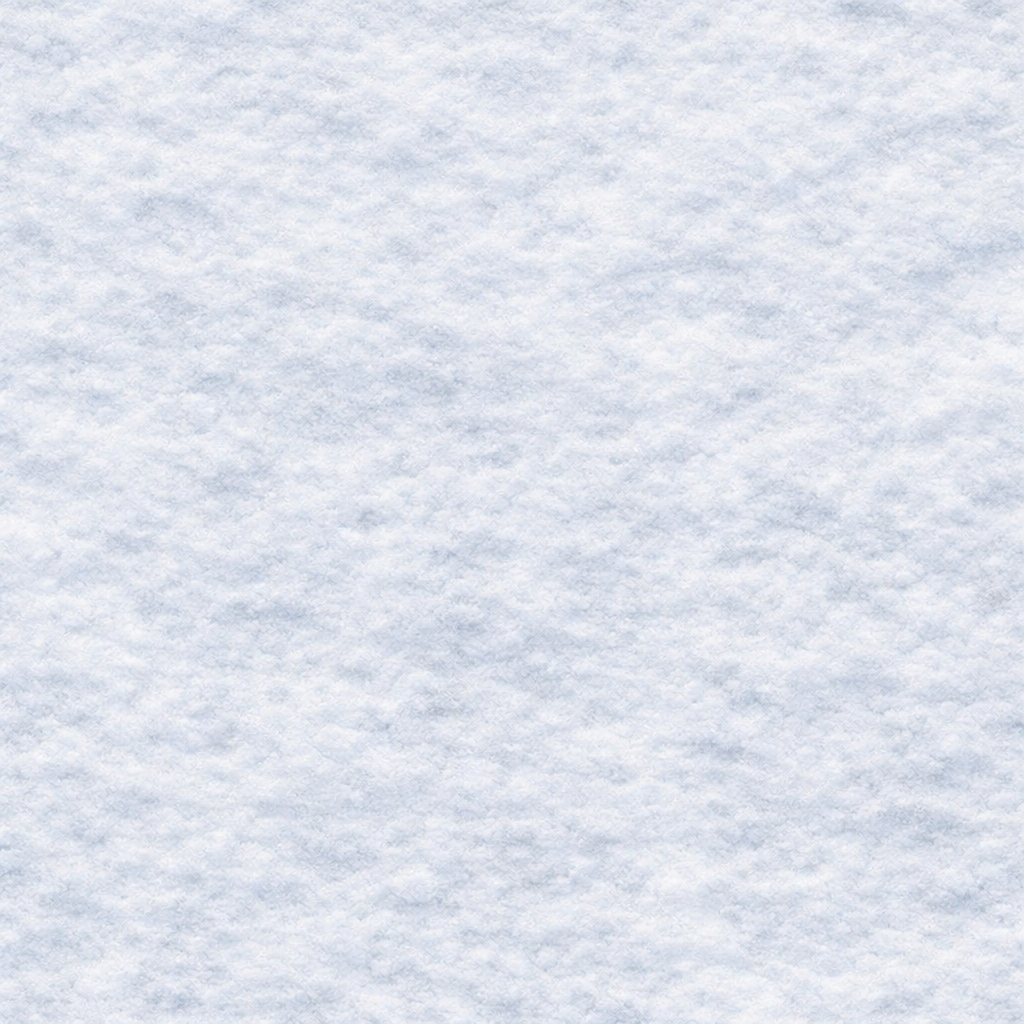
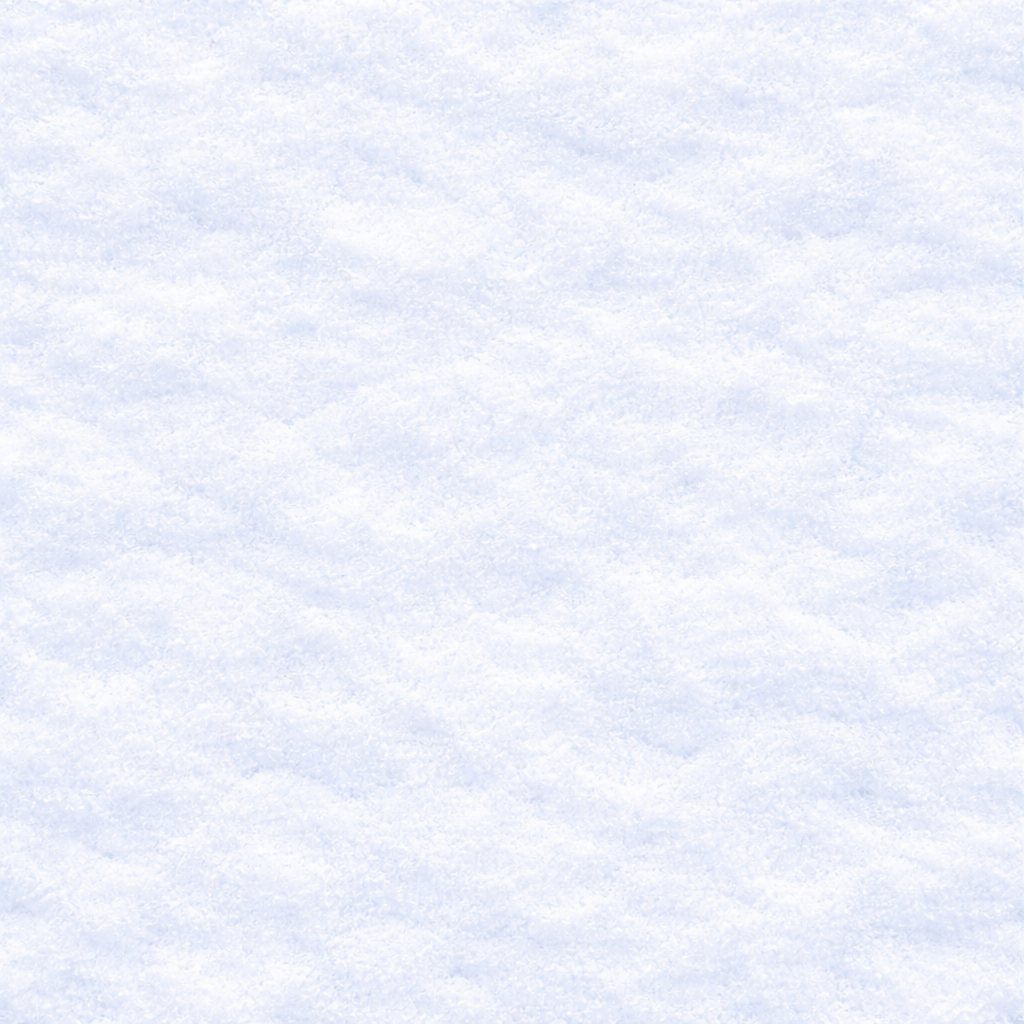
simplified tiles: only ocean, sea, shallow, grass, plains, desert, snow

diff --git a/src/game/generator/map-generator.ts b/src/game/generator/map-generator.ts
@@ -190,6 +190,7 @@ function applyMoisture(mois: number[][], W: number, H: number, bias: number): vo
 
 // ==========================================
 // НАЗНАЧЕНИЕ БИОМОВ ПО ВЕСАМ
+// Порядок: Snow(холод) → Grass → Plains → Desert(жара)
 // ==========================================
 
 function assignBiomes(
@@ -203,15 +204,11 @@ function assignBiomes(
     const map: TileType[][] = Array.from({ length: H }, () => Array(W).fill(TileType.OCEAN))
 
     const bw = cfg.biomeWeights
-    const total = bw.snow + bw.tundra + bw.taiga + bw.grass + bw.plains + bw.desert
+    const total = bw.snow + bw.grass + bw.plains + bw.desert
     if (total === 0) return map
 
-    // Температурные пороги из весов
-    // Порядок: Snow(холод) → Tundra → Taiga → Grass → Plains → Desert(жара)
     const snowEnd   = bw.snow / total
-    const tundraEnd = snowEnd + bw.tundra / total
-    const taigaEnd  = tundraEnd + bw.taiga / total
-    const grassEnd  = taigaEnd + bw.grass / total
+    const grassEnd  = snowEnd + bw.grass / total
     const plainsEnd = grassEnd + bw.plains / total
     // desert = остаток до 1.0
 
@@ -224,10 +221,6 @@ function assignBiomes(
 
             if (t < snowEnd) {
                 map[y][x] = TileType.SNOW
-            } else if (t < tundraEnd) {
-                map[y][x] = TileType.TUNDRA
-            } else if (t < taigaEnd) {
-                map[y][x] = TileType.TAIGA
             } else if (t < grassEnd) {
                 map[y][x] = TileType.GRASS
             } else if (t < plainsEnd) {
@@ -338,6 +331,8 @@ function enforceShallowBorder(map: TileType[][], W: number, H: number): void {
 
 // ==========================================
 // ПЕРЕХОДЫ СУШИ
+// Snow ↔ Grass → через Plains (переходная зона)
+// Grass ↔ Desert → через Plains
 // ==========================================
 
 function applyTransitions(map: TileType[][], W: number, H: number): void {
@@ -358,28 +353,23 @@ function applyTransitions(map: TileType[][], W: number, H: number): void {
             const c = orig[y][x]
             if (!isLand(c)) continue
 
+            // Grass рядом с Desert → Plains
             if (c === TileType.GRASS && has(x, y, TileType.DESERT))
                 map[y][x] = TileType.PLAINS
             if (c === TileType.DESERT && has(x, y, TileType.GRASS))
                 map[y][x] = TileType.PLAINS
-            if (c === TileType.GRASS && has(x, y, TileType.TUNDRA))
-                map[y][x] = TileType.TAIGA
-            if (c === TileType.TUNDRA && has(x, y, TileType.GRASS))
-                map[y][x] = TileType.TAIGA
-            if (c === TileType.GRASS && has(x, y, TileType.SNOW))
-                map[y][x] = TileType.TAIGA
+
+            // Snow рядом с Grass → Plains
             if (c === TileType.SNOW && has(x, y, TileType.GRASS))
-                map[y][x] = TileType.TAIGA
-            if (c === TileType.SNOW && has(x, y, TileType.TAIGA))
-                map[y][x] = TileType.TAIGA
-            if (c === TileType.SNOW && has(x, y, TileType.PLAINS))
-                map[y][x] = TileType.TUNDRA
-            if (c === TileType.DESERT && has(x, y, TileType.TAIGA, TileType.TUNDRA, TileType.SNOW))
                 map[y][x] = TileType.PLAINS
-            if (c === TileType.PLAINS && has(x, y, TileType.TUNDRA, TileType.SNOW))
-                map[y][x] = TileType.GRASS
-            if (c === TileType.TAIGA && has(x, y, TileType.DESERT))
-                map[y][x] = TileType.GRASS
+            if (c === TileType.GRASS && has(x, y, TileType.SNOW))
+                map[y][x] = TileType.PLAINS
+
+            // Snow рядом с Desert → Plains
+            if (c === TileType.SNOW && has(x, y, TileType.DESERT))
+                map[y][x] = TileType.PLAINS
+            if (c === TileType.DESERT && has(x, y, TileType.SNOW))
+                map[y][x] = TileType.PLAINS
         }
     }
 }

diff --git a/src/game/types/game-types.ts b/src/game/types/game-types.ts
@@ -7,9 +7,7 @@ export enum TileType {
     GRASS   = 3,
     PLAINS  = 4,
     DESERT  = 5,
-    TAIGA   = 6,
-    TUNDRA  = 7,
-    SNOW    = 8,
+    SNOW    = 6,
 }
 
 export interface IsoPoint {
@@ -35,8 +33,6 @@ export enum LandMassType {
 
 export interface BiomeWeights {
     snow: number       // 0–100
-    tundra: number
-    taiga: number
     grass: number
     plains: number
     desert: number
@@ -79,7 +75,7 @@ export const MAP_PRESETS: Record<string, Partial<MapConfig>> = {
         islandCount: 2,
         temperatureBias: 0,
         moistureBias: 0,
-        biomeWeights: { snow: 10, tundra: 10, taiga: 15, grass: 30, plains: 20, desert: 15 },
+        biomeWeights: { snow: 15, grass: 35, plains: 25, desert: 25 },
     },
 
     pangaea: {
@@ -90,7 +86,7 @@ export const MAP_PRESETS: Record<string, Partial<MapConfig>> = {
         islandCount: 1,
         temperatureBias: 0,
         moistureBias: 0,
-        biomeWeights: { snow: 10, tundra: 10, taiga: 15, grass: 30, plains: 20, desert: 15 },
+        biomeWeights: { snow: 15, grass: 35, plains: 25, desert: 25 },
     },
 
     archipelago: {
@@ -101,7 +97,7 @@ export const MAP_PRESETS: Record<string, Partial<MapConfig>> = {
         islandCount: 8,
         temperatureBias: 0.2,
         moistureBias: 0.2,
-        biomeWeights: { snow: 5, tundra: 5, taiga: 10, grass: 40, plains: 25, desert: 15 },
+        biomeWeights: { snow: 5, grass: 40, plains: 30, desert: 25 },
     },
 
     desert_world: {
@@ -112,7 +108,7 @@ export const MAP_PRESETS: Record<string, Partial<MapConfig>> = {
         islandCount: 1,
         temperatureBias: 0.6,
         moistureBias: -0.5,
-        biomeWeights: { snow: 2, tundra: 3, taiga: 5, grass: 15, plains: 30, desert: 45 },
+        biomeWeights: { snow: 5, grass: 15, plains: 25, desert: 55 },
     },
 
     ice_age: {
@@ -123,7 +119,7 @@ export const MAP_PRESETS: Record<string, Partial<MapConfig>> = {
         islandCount: 2,
         temperatureBias: -0.6,
         moistureBias: 0.3,
-        biomeWeights: { snow: 35, tundra: 25, taiga: 20, grass: 12, plains: 5, desert: 3 },
+        biomeWeights: { snow: 50, grass: 25, plains: 15, desert: 10 },
     },
 
     lakes: {
@@ -134,7 +130,7 @@ export const MAP_PRESETS: Record<string, Partial<MapConfig>> = {
         islandCount: 1,
         temperatureBias: 0,
         moistureBias: 0.3,
-        biomeWeights: { snow: 8, tundra: 8, taiga: 15, grass: 35, plains: 20, desert: 14 },
+        biomeWeights: { snow: 10, grass: 40, plains: 25, desert: 25 },
     },
 
     tropical: {
@@ -145,18 +141,7 @@ export const MAP_PRESETS: Record<string, Partial<MapConfig>> = {
         islandCount: 6,
         temperatureBias: 0.4,
         moistureBias: 0.5,
-        biomeWeights: { snow: 0, tundra: 0, taiga: 5, grass: 50, plains: 30, desert: 15 },
-    },
-
-    tundra_world: {
-        landMass: LandMassType.PANGAEA,
-        oceanRatio: 0.25,
-        noiseScale: 14,
-        noiseOctaves: 4,
-        islandCount: 1,
-        temperatureBias: -0.3,
-        moistureBias: -0.2,
-        biomeWeights: { snow: 20, tundra: 30, taiga: 25, grass: 15, plains: 7, desert: 3 },
+        biomeWeights: { snow: 0, grass: 45, plains: 30, desert: 25 },
     },
 }
 

diff --git a/src/modules/game/ui/settings-panel.tsx b/src/modules/game/ui/settings-panel.tsx
@@ -132,16 +132,6 @@ export function SettingsPanel({ config, stats, onChange, onApply, onClose }: Set
             <Section title='🌿 Доли биомов'>
                 <BiomeSlider label='❄ Snow' value={config.biomeWeights.snow} onChange={v => updateBiome('snow', v)} />
                 <BiomeSlider
-                    label='🥶 Tundra'
-                    value={config.biomeWeights.tundra}
-                    onChange={v => updateBiome('tundra', v)}
-                />
-                <BiomeSlider
-                    label='🌲 Taiga'
-                    value={config.biomeWeights.taiga}
-                    onChange={v => updateBiome('taiga', v)}
-                />
-                <BiomeSlider
                     label='🌿 Grass'
                     value={config.biomeWeights.grass}
                     onChange={v => updateBiome('grass', v)}
@@ -261,8 +251,7 @@ const PRESET_LABELS: Record<string, string> = {
     desert_world: 'Пустыня',
     ice_age: 'Ледник',
     lakes: 'Озёра',
-    tropical: 'Тропики',
-    tundra_world: 'Тундра'
+    tropical: 'Тропики'
 }
 
 function tempLabel(v: number): string {
@@ -285,6 +274,5 @@ function getBiomeColor(name: string): string {
     const entry = Object.entries(TILE_NAMES).find(([, v]) => v === name)
     if (!entry) return '#666666'
     const color = TILE_COLORS[Number(entry[0]) as TileType]
-    // Важно: гарантируем ровно 6 hex-символов
     return '#' + (color >>> 0).toString(16).padStart(6, '0')
 }

diff --git a/src/engine/texture-loader.ts b/src/engine/texture-loader.ts
@@ -11,7 +11,13 @@ export async function loadAllTileTextures(): Promise<void> {
     const entries = Object.entries(TILE_TEXTURE_PATHS) as [string, string][]
 
     for (const [key, path] of entries) {
-        Assets.add({ alias: `tile_${key}`, src: path })
+        Assets.add({
+            alias: `tile_${key}`,
+            src: path,
+            data: {
+                scaleMode: 'nearest' // уменьшает артефакты интерполяции при масштабировании
+            }
+        })
     }
 
     const aliases = entries.map(([key]) => `tile_${key}`)
@@ -31,7 +37,10 @@ export async function loadAllTileTextures(): Promise<void> {
         console.error('❌ Failed to load textures as bundle, trying one by one...', err)
         for (const [key, path] of entries) {
             try {
-                const texture = await Assets.load<Texture>(path)
+                const texture = await Assets.load<Texture>({
+                    src: path,
+                    data: { scaleMode: 'nearest' }
+                })
                 if (texture && !texture.destroyed) {
                     textureCache.set(Number(key) as TileType, texture)
                 }

diff --git a/src/game/constants/map-constants.ts b/src/game/constants/map-constants.ts
@@ -7,8 +7,6 @@ export const TILE_NAMES: Record<TileType, string> = {
     [TileType.GRASS]: 'grass',
     [TileType.PLAINS]: 'plains',
     [TileType.DESERT]: 'desert',
-    [TileType.TAIGA]: 'taiga',
-    [TileType.TUNDRA]: 'tundra',
     [TileType.SNOW]: 'snow'
 }
 
@@ -19,7 +17,5 @@ export const TILE_COLORS: Record<TileType, number> = {
     [TileType.GRASS]: 0x4caf50,
     [TileType.PLAINS]: 0xc0ca33,
     [TileType.DESERT]: 0xffb74d,
-    [TileType.TAIGA]: 0x2e7d32,
-    [TileType.TUNDRA]: 0x78909c,
     [TileType.SNOW]: 0xe8eaf6
 }

diff --git a/src/engine/constants.ts b/src/engine/constants.ts
@@ -14,7 +14,5 @@ export const TILE_TEXTURE_PATHS: Record<TileType, string> = {
     [TileType.GRASS]: '/assets/tilles/grass.png',
     [TileType.PLAINS]: '/assets/tilles/plains.png',
     [TileType.DESERT]: '/assets/tilles/desert.png',
-    [TileType.TAIGA]: '/assets/tilles/taiga.png',
-    [TileType.TUNDRA]: '/assets/tilles/tundra.png',
     [TileType.SNOW]: '/assets/tilles/snow.png'
 }

diff --git a/src/modules/game/ui/game-hud.tsx b/src/modules/game/ui/game-hud.tsx
@@ -75,8 +75,6 @@ function Legend() {
         TileType.GRASS,
         TileType.PLAINS,
         TileType.DESERT,
-        TileType.TAIGA,
-        TileType.TUNDRA,
         TileType.SNOW
     ]
 
